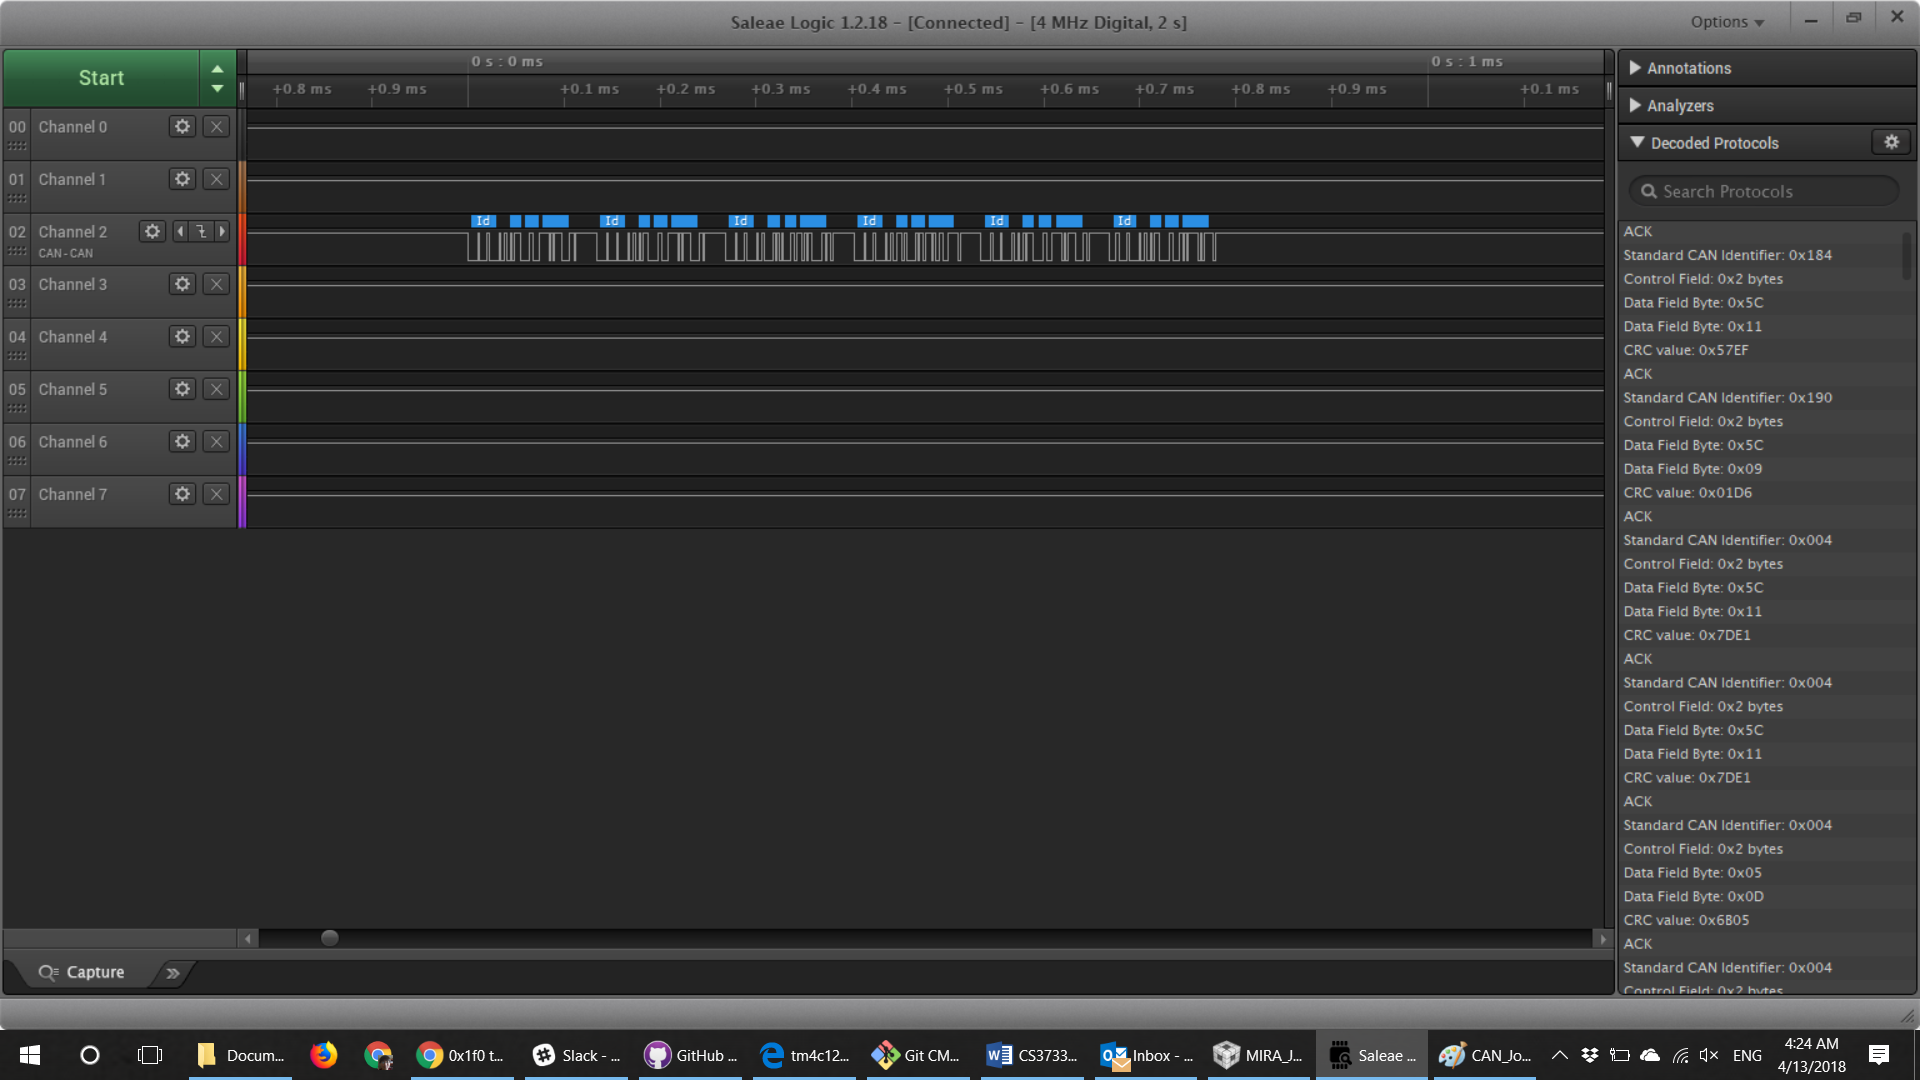
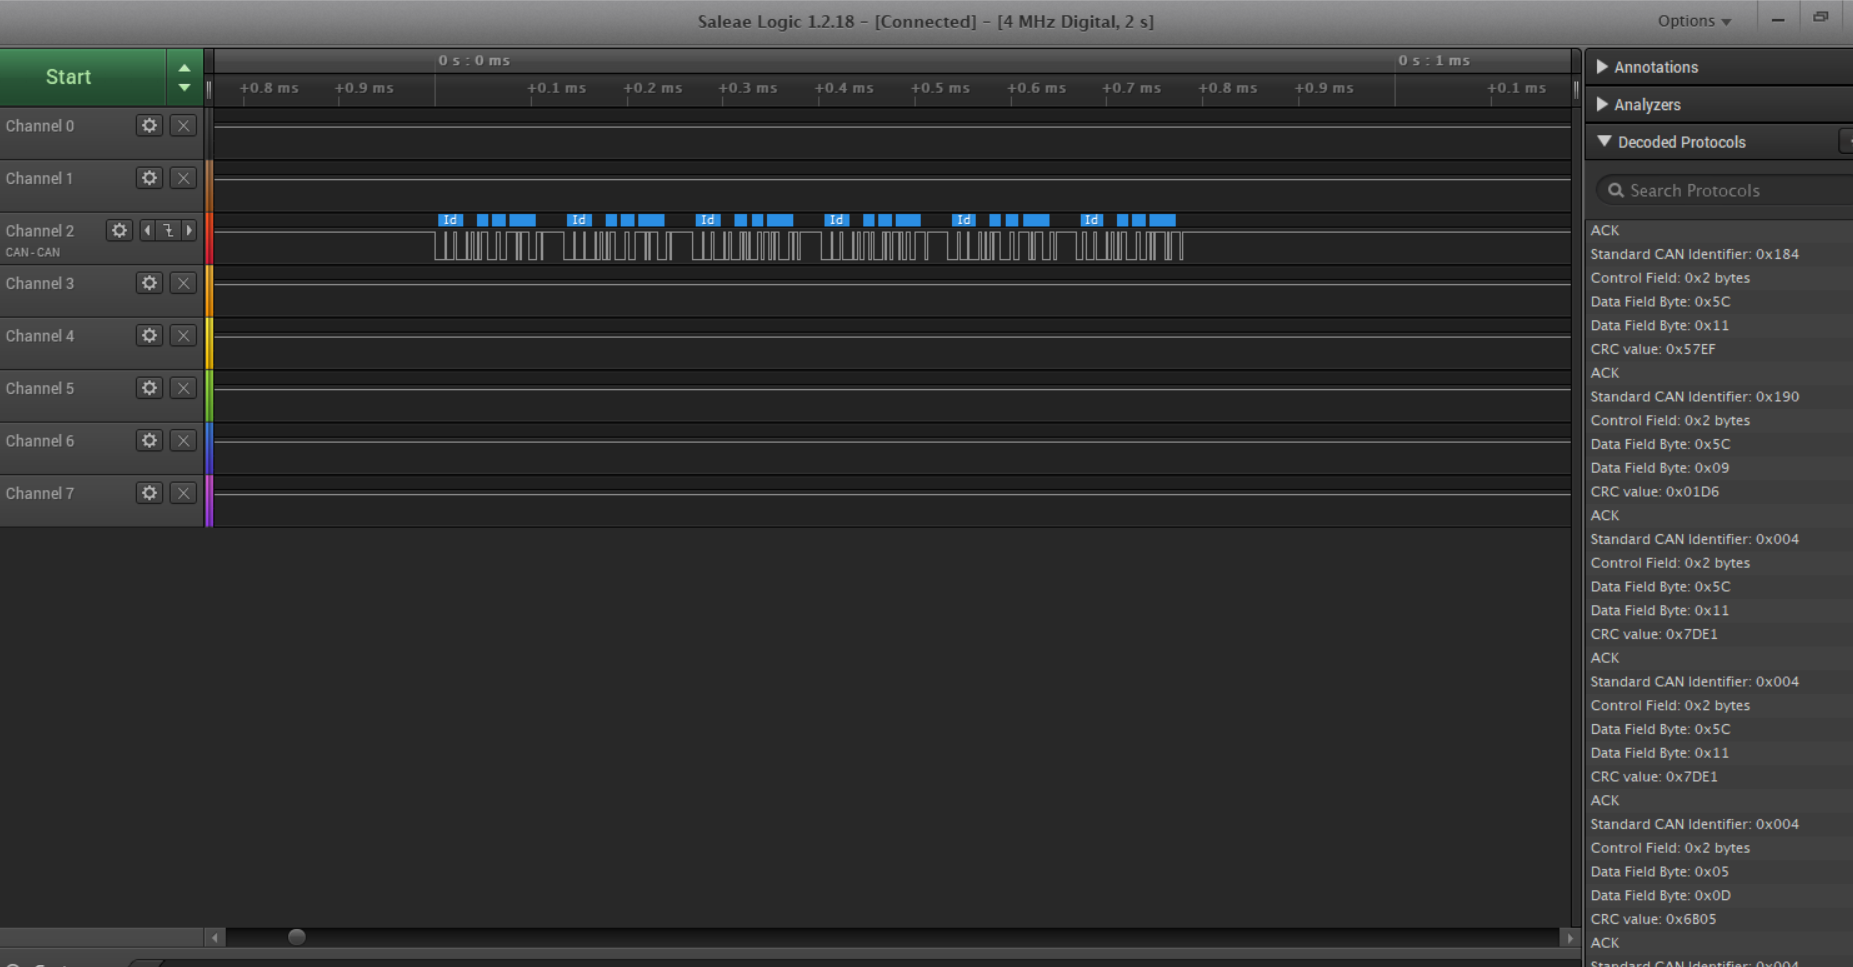
added CAN joint update stuff, cropped out taskbar in photos

Changed region(s): [[0.0, 0.0, 1.0, 1.0]]

diff --git a/Chapters/Methodology.tex b/Chapters/Methodology.tex
@@ -476,6 +476,38 @@ Selecting a microcontroller was a key part of making the joint control board. Wi
 
 \noindent The potentiometer was connected to PE0 which was enabled at AIN3. The ADC was set to sample at 1kHz with hardware oversampling 16x enabled. A timer was configured to start an ADC conversion every millisecond, and a GPIO pin was set to 0 every time the ADC finished a conversion and set to 1 when the ADC conversion began. The time necessary to sample once at 16x hardware oversampling was around 5$\mu$s.
 
+\subsubsection{Printed Circuit Boards}
+A PCB was made for each of the major subsystems as a more final test. The subsystems for which a PCB was designed include the motor driver (both with and without a current sensor), load cell amplifier, CAN transceiver, and TM4C123GH6PM microcontroller. After these were verified to be working, a Boosterpack compatible design of the whole joint control board.
+
+\noindent The motor driver PCB can be seen in Appendix \ref{app:motor_driver} and has the demultiplexer and a shunt resistor for triggering the automatic internal shutoff if the current gets too high. The motor driver with current sensor has a current sensor integrated in the board and can be seen in Appendix \ref{app:motor_driver_current}. The load cell amplifier has the LM358 op amp as well as the INA332 instrumentation amplifier and can be seen in Appendix \ref{app:load_cell_amp}. The CAN transceiver PCB was designed that contains the 6 necessary DIP switches, CAN transceiver, and auto-terminate circuit and can be seen in Appendix \ref{app:can_transceiver}. The joint control board Boosterpack has all of these components in a single PCB that mounts on top of the TM4C123GXL Launchpad and can be seen in Appendix \ref{app:joint_board_boosterpack}. All of these PCBs can be seen in Figure \ref{fig:pcbs}. A closeup of the joint control board Boosterpack attached to a Launchpad can be seen in Figure \ref{fig:jcb_boosterpack}.
+
+\begin{figure}[H]
+	\centering
+	\includegraphics[scale=0.1]{pcbs}
+	\caption{Assembled PCBs of each major subsystem including motor driver with current sensor (right), CAN transceiver (bottom), load cell amplifier (left), and joint control board Boosterpack (top)}
+	\label{fig:pcbs}
+\end{figure}
+
+\begin{figure}[H]
+	\centering
+	\includegraphics[scale=0.1]{jcb_boosterpack}
+	\caption{Joint control board Boosterpack on the TM4C123GXL Launchpad}
+	\label{fig:jcb_boosterpack}
+\end{figure}
+
+\noindent Small problems existed in some of the PCBs during the first revision. The CAN transceiver PCB has the $V_{CC}$ and GND pins swapped. Once this problem was identified, the traces were cut, wire soldered, and the schematic altered for another revision. The load cell amplifier PCB has a GND pin that was not connected to anything. The GND pin on the INA332 amplifier had an unconnected ground pin. This pin was connected with wire, and the PCB worked as expected.
+
+\noindent The joint control board Boosterpack had the CAN transceiver $V_{CC}$ and GND pins swapped as well as needing the motor direction pin to be moved from one pin to another. This change came about due to the Launchpad construction. Two of the pins were connected internally but labeled differently, so the motor direction pin was swapped in code, the trace was cut, and wire was soldered to the new pin. These changes can be seen in Figure \ref{fig:jcb_boosterpack}. Another revision of the joint control board Boosterpack was made but not ordered due to time constraints.
+
+\subsubsection{Joint Control Board Code}
+%TODO: talk about RTOS, put flowchart, talk about CAN challenges
+\begin{figure}[H]
+	\centering
+	\includegraphics[scale=0.35]{jcb_code_flowchart}
+	\caption{Joint control board code flowchart}
+	\label{fig:jcb_code_flowchart}
+\end{figure}
+
 \subsection{CAN Bus}
 The CAN bus is the spine of the control system, carrying messages from the base to each joint and back from each of the joints to the base. Unit tests and careful integration were done to ensure that this tricky protocol was implemented properly and robustly while leaving room for future implementation of additional message types.
 
@@ -550,36 +582,23 @@ CAN specification states that the CAN bus needs to be terminated on both ends by
 	\label{fig:can_terminate_circ}
 \end{figure}
 
-\subsection{Printed Circuit Boards}
-A PCB was made for each of the major subsystems as a more final test. The subsystems for which a PCB was designed include the motor driver (both with and without a current sensor), load cell amplifier, CAN transceiver, and TM4C123GH6PM microcontroller. After these were verified to be working, a Boosterpack compatible design of the whole joint control board.
+\subsubsection{Position Updates}
+The control system supports up to 6 joints at a time. In order to have a constant transmission speed for every combination of joints up to and including 6 joints, 6 joint update packets are sent every update. When fewer than 6 joints are used, the remaining packets are transmitted but never received. This is one place where using the CAN bus helps, since these messages don't need to be received by a specific receiver. Only the ACK bit needs to be sent when no errors are detected with packet structure, but this can be sent by any received. 
 
-\noindent The motor driver PCB can be seen in Appendix \ref{app:motor_driver} and has the demultiplexer and a shunt resistor for triggering the automatic internal shutoff if the current gets too high. The motor driver with current sensor has a current sensor integrated in the board and can be seen in Appendix \ref{app:motor_driver_current}. The load cell amplifier has the LM358 op amp as well as the INA332 instrumentation amplifier and can be seen in Appendix \ref{app:load_cell_amp}. The CAN transceiver PCB was designed that contains the 6 necessary DIP switches, CAN transceiver, and auto-terminate circuit and can be seen in Appendix \ref{app:can_transceiver}. The joint control board Boosterpack has all of these components in a single PCB that mounts on top of the TM4C123GXL Launchpad and can be seen in Appendix \ref{app:joint_board_boosterpack}. All of these PCBs can be seen in Figure \ref{fig:pcbs}. A closeup of the joint control board Boosterpack attached to a Launchpad can be seen in Figure \ref{fig:jcb_boosterpack}.
+\noindent Since all 6 joints were being updated every time, the minimum update time is the time it takes to transmit 6 CAN packets. This time was measured to be about 0.8ms with a transmission speed of 500kHz using the logic analyzer and can be seen in Figure \ref{fig:can_joint_update}. The joint update and response were both sent at a rate of 20Hz, 50ms apart, and can be seen in figure \ref{fig:can_joint_update_response}.
 
 \begin{figure}[H]
 	\centering
-	\includegraphics[scale=0.1]{pcbs}
-	\caption{Assembled PCBs of each major subsystem including motor driver with current sensor (right), CAN transceiver (bottom), load cell amplifier (left), and joint control board Boosterpack (top)}
-	\label{fig:pcbs}
+	\includegraphics[width=\textwidth]{CAN_Joint_Update}
+	\caption{Position update from the base module}
+	\label{fig:can_joint_update}
 \end{figure}
 
-\begin{figure}[H]
-\centering
-\includegraphics[scale=0.1]{jcb_boosterpack}
-\caption{Joint control board Boosterpack on the TM4C123GXL Launchpad}
-\label{fig:jcb_boosterpack}
-\end{figure}
-
-\noindent Small problems existed in some of the PCBs during the first revision. The CAN transceiver PCB has the $V_{CC}$ and GND pins swapped. Once this problem was identified, the traces were cut, wire soldered, and the schematic altered for another revision. The load cell amplifier PCB has a GND pin that was not connected to anything. The GND pin on the INA332 amplifier had an unconnected ground pin. This pin was connected with wire, and the PCB worked as expected.
-
-\noindent The joint control board Boosterpack had the CAN transceiver $V_{CC}$ and GND pins swapped as well as needing the motor direction pin to be moved from one pin to another. This change came about due to the Launchpad construction. Two of the pins were connected internally but labeled differently, so the motor direction pin was swapped in code, the trace was cut, and wire was soldered to the new pin. These changes can be seen in Figure \ref{fig:jcb_boosterpack}. Another revision of the joint control board Boosterpack was made but not ordered due to time constraints.
-
-\subsubsection{Joint Control Board Code}
-%TODO: talk about RTOS, put flowchart, talk about CAN challenges
 \begin{figure}[H]
 	\centering
-	\includegraphics[scale=0.35]{jcb_code_flowchart}
-	\caption{Joint control board code flowchart}
-	\label{fig:jcb_code_flowchart}
+	\includegraphics[width=\textwidth]{CAN_Joint_Update_response}
+	\caption{Position update from the base module with response from a joint}
+	\label{fig:can_joint_update_response}
 \end{figure}
 
 \subsection{Base Module}
